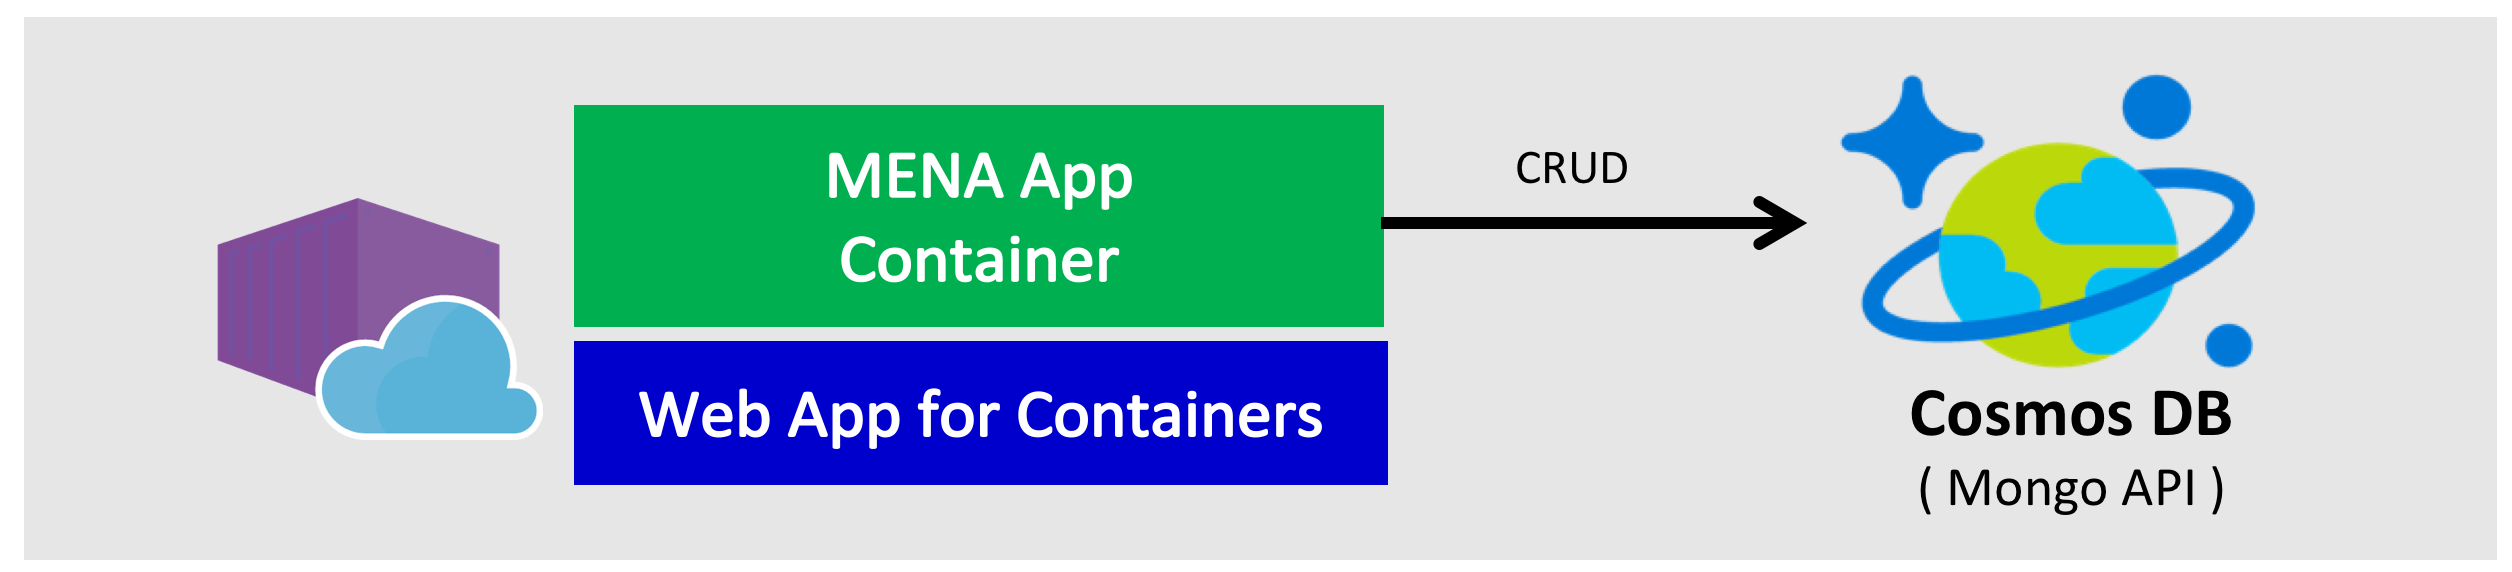
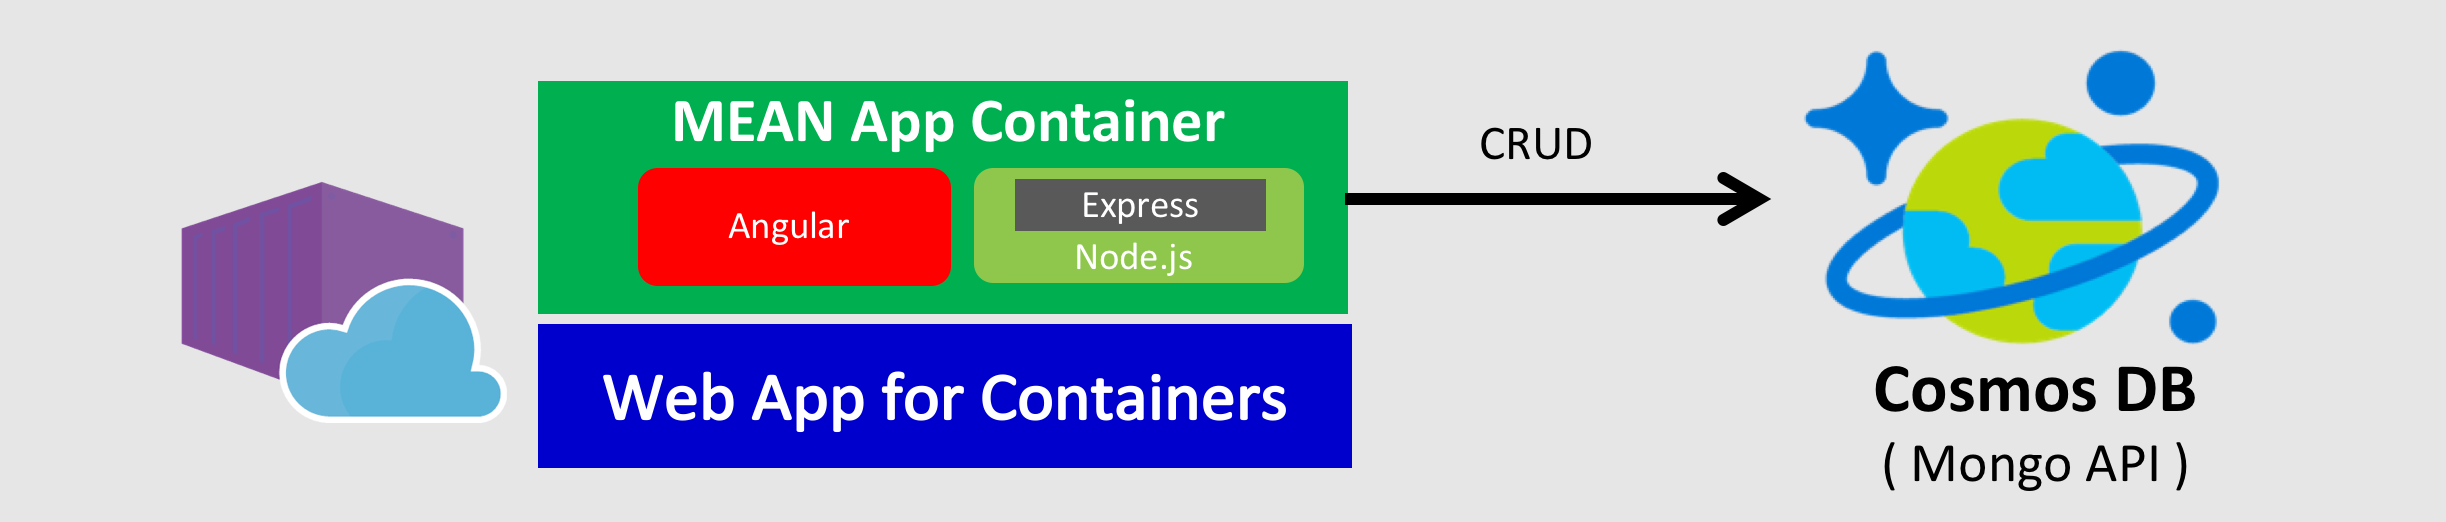
Added docs for web app for containers

diff --git a/docs/tutorial-webapp-containers-and-cosmosdb.md b/docs/tutorial-webapp-containers-and-cosmosdb.md
@@ -1,0 +1,112 @@
+# Tutorial: Running MEAN Stack App Container in Azure using Web App for Containers and Cosmos DB
+
+
+![](../images/webapp-container-cosmosdb.png)
+
+
+## Setup Azure Cosmos DB
+
+### Create an Azure Cosmos DB account and Database
+
+```
+# Create a MongoDB API Cosmos DB account
+az cosmosdb create \
+    --name $ACCOUNT_NAME \
+    --kind MongoDB \
+    --resource-group $RESOURCE_GROUP \
+
+# Create a database
+az cosmosdb database create \
+    --name $ACCOUNT_NAME \
+    --db-name $DATABASE_NAME \
+    --resource-group $RESOURCE_GROUP
+```
+
+Alternatively, you can create by running the following script:
+```
+scripts/cosmosdb-mongo-create.sh
+```
+
+### Get the Cosmos DB (Mongo API) connection string for the application
+
+Retrieve the primary master key by running the following command:
+```
+az cosmosdb list-keys \
+    --name $ACCOUNT_NAME \
+    --resource-group $RESOURCE_GROUP \
+    --query "primaryMasterKey"
+```
+
+Then, get the connection string by replacing cosmosdb-name, primary-master-key, and database-name with your values in the following string:
+```
+mongodb://<cosmosdb-name>:<primary_master_key>@<cosmosdb-name>.documents.azure.com:10255/<database-name>?ssl=true&sslverifycertificate=false
+```
+
+Alternatively, you can get the connectiong string result by running the following script:
+```
+scripts/cosmosdb-mongo-create.sh
+```
+
+## Build, Run a Docker image and push it to a Container Registery
+
+Build the image (suppose the container image tag is 0.0.1)
+```
+git clone https://github.com/yokawasa/azure-containers-mean-stack-demo.git
+
+cd azure-containers-mean-stack-demo/dockerfiles 
+docker build -t  .
+docker build -t mean-demo:0.0.1 .
+
+```
+
+Test the images by running the Docker image locally
+```
+# Run the container with the connection string that you obtain in previous steps
+docker run --rm -it -p 8080:80 -p 3000:3000 -p 2222:2222 -e MONGODB_URI="$MONGODB_CONNECTION_STRING" -e CONTAINER_ROLE="ALL" mean-demo:0.0.1
+
+# Access the app with 8080 port
+curl localhost:8080
+```
+
+Finally, tag and push the image to the registry (ex. yoichika.azurecr.io )
+```
+docker login $REGISTRY_URL -u $REGISTRY_NAME -p $REGISTRY_PASSWORD
+
+docker tag mean-demo:0.0.1 $REGISTRY_URL/mean-demo:0.0.1
+
+docker push $REGISTRY_URL/mean-demo:0.0.1
+
+docker logout
+```
+
+## Setep Web App and Run the app
+
+### Create Web APP
+```
+# Create Web App for Container
+az webapp create \
+  -n $APP_NAME \
+  -g $RESOURCE_GROUP \
+  -p $APP_PLAN \
+  -i $CONTAINER_IMAGE
+```
+
+Alternatively, you can create web app by running the following script:
+```
+scripts/webapp-create.sh
+```
+
+### Update Web App Settings and Run the app
+```
+az webapp config appsettings set \
+  -n $APP_NAME \
+  -g $RESOURCE_GROUP \
+  --settings MONGODB_URI=$COSMOSDB_CONN_STRING WEBSITES_ENABLE_APP_SERVICE_STORAGE=true WEBSITES_PORT=80
+```
+Alternatively, you can create web app by running the following script:
+```
+scripts/webapp-update-settings.sh
+```
+
+
+

diff --git a/README.md b/README.md
@@ -15,7 +15,7 @@ MEAN Stack App Conatiner Demos using Azure Container related services and PaaS
 
 ![](images/webapp-container-cosmosdb.png)
 
-TBU
+- [Running MEAN Stack App Container in Azure using Web App for Containers and Cosmos DB](docs/tutorial-webapp-containers-and-cosmosdb.md)
 
 ## ACS Engine + Kubernetes
 K8S cluster architecture deployed with acs-engine
